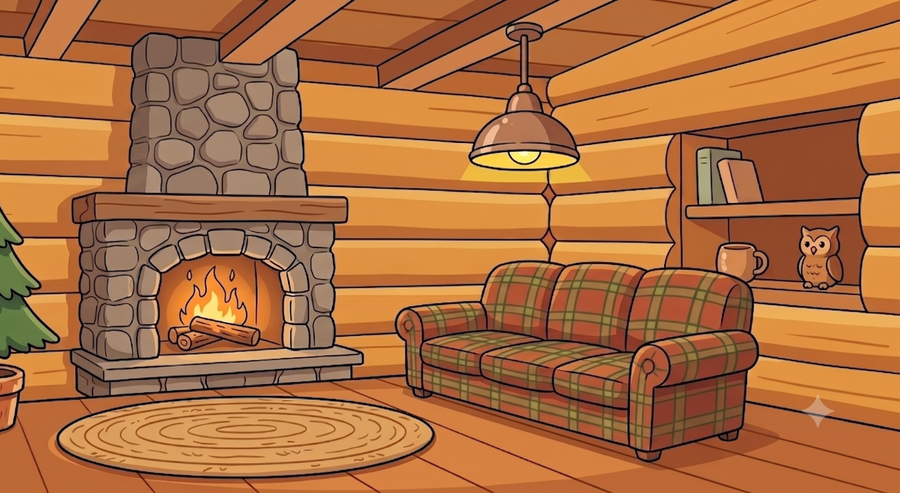
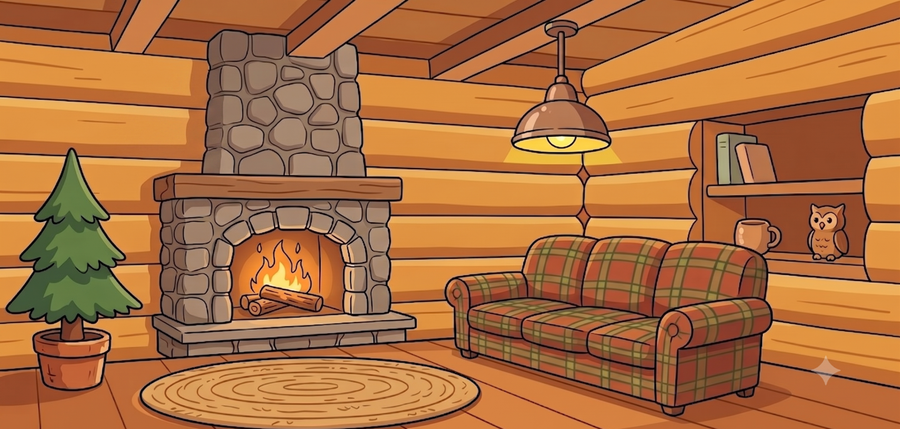
fix: 修好小屋背景樹被切掉的問題，補上摸摸的瞇眼表情圖
背景樹被裁掉是因為第一版背景截圖是直式螢幕截圖，手機相簿把橫幅插畫塞進
直式畫面時左右邊緣被裁掉了，不是 CSS cover 的問題。這次拿到的是橫式截圖
（完整涵蓋插畫寬度），重新裁黑邊（這次用逐欄掃描抓內容範圍，而不是逐列，
因為這次是左右黑邊不是上下），順便切掉螢幕截圖裡殘留的一小段 home
indicator 深色bar。

摸摸的瞇眼滿足表情圖也終於拿到正確版本了（之前兩次截圖都截到別張），
接上 petTouch()：摸摸時 portrait 暫時換成這張瞇眼表情，1.2 秒後換回，
跟餵食/洗澡的圖片切換用同一套機制。

用 Playwright 截圖確認樹完整可見、摸摸表情正確切換，無 JS 錯誤。

diff --git a/index.html b/index.html
@@ -2427,6 +2427,7 @@ function spawnPetHearts() {
 const CAT_PORTRAIT_NEUTRAL = 'img/pet/cat_portrait.png';
 const CAT_PORTRAIT_EATING  = 'img/pet/cat_eating.png';
 const CAT_PORTRAIT_BATH    = 'img/pet/cat_bath.png';
+const CAT_PORTRAIT_HAPPY   = 'img/pet/cat_happy.png';
 
 function setPetPortraitImage(src) {
   const portrait = document.getElementById('pet-portrait');
@@ -2508,6 +2509,8 @@ function petTouch() {
   document.getElementById('pet-hint').textContent = gained > 0
     ? '貓咪瞇著眼睛，好像很喜歡被摸摸～'
     : '貓咪今天已經被照顧很多囉，明天繼續累積成長點數吧！';
+  setPetPortraitImage(CAT_PORTRAIT_HAPPY);
+  setTimeout(() => setPetPortraitImage(CAT_PORTRAIT_NEUTRAL), 1200);
   petBouncePortrait();
   spawnPetHearts();
   updatePetStatsUI();
